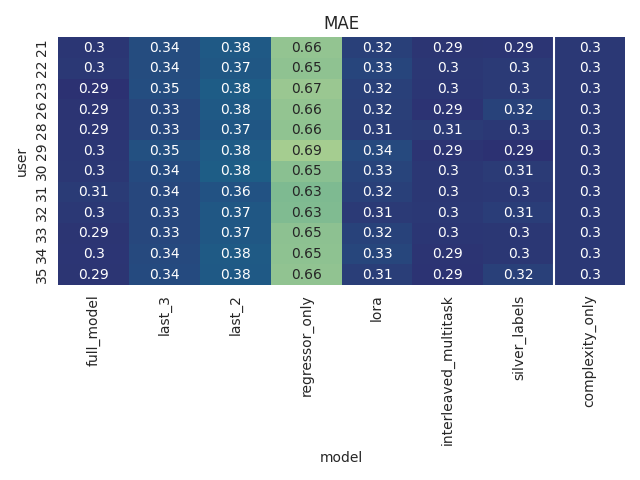
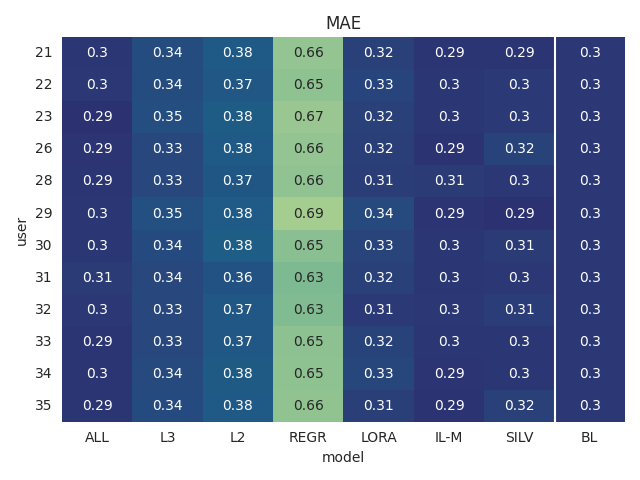
changed plot labels on dst evaluation

diff --git a/scripts/eval/downstream_task_evaluation_comparison.py b/scripts/eval/downstream_task_evaluation_comparison.py
@@ -5,6 +5,18 @@ import json
 import os
 import re
 
+labels_map = {
+    'full_model': 'ALL',
+    'last_3': 'L3',
+    'last_2': 'L2',
+    'regressor_only': 'REGR',
+    'lora': 'LORA',
+    'interleaved_multitask': 'IL-M',
+    'silver_labels': 'SILV',
+    'complexity_only': 'BL'
+}
+
+
 sns.set_style('darkgrid')
 
 def load_trainer_state(model_dir):
@@ -70,6 +82,8 @@ def load_metrics_dataframe(src_dir):
 
 def plot_metrics(df, metric, output_path):
     plot = sns.heatmap(data=df, annot=True, cmap='crest' if metric == 'spearmanr' else 'crest_r', cbar=False);
+    plot.set_yticklabels(plot.get_yticklabels(), rotation=0)
+    # plot.set_xticklabels(plot.get_xticklabels(), rotation=-45)
     plot.vlines([7], *plot.get_ylim(), color='white');
     plot.set_title(metric.upper())
     plot.figure.tight_layout()
@@ -94,6 +108,7 @@ def main():
         pivoted_df = metric_df.pivot(index='user', columns='model', values='score')
         pivoted_df['complexity_only'] = baseline_metrics[metric]
         pivoted_df = pivoted_df.reindex(['full_model', 'last_3', 'last_2', 'regressor_only', 'lora', 'interleaved_multitask', 'silver_labels', 'complexity_only'], axis=1)
+        pivoted_df = pivoted_df.rename(columns=labels_map)
         plot_metrics(pivoted_df, metric, f'{plots_out_dir}/{metric}_comparison.png')
     
     
